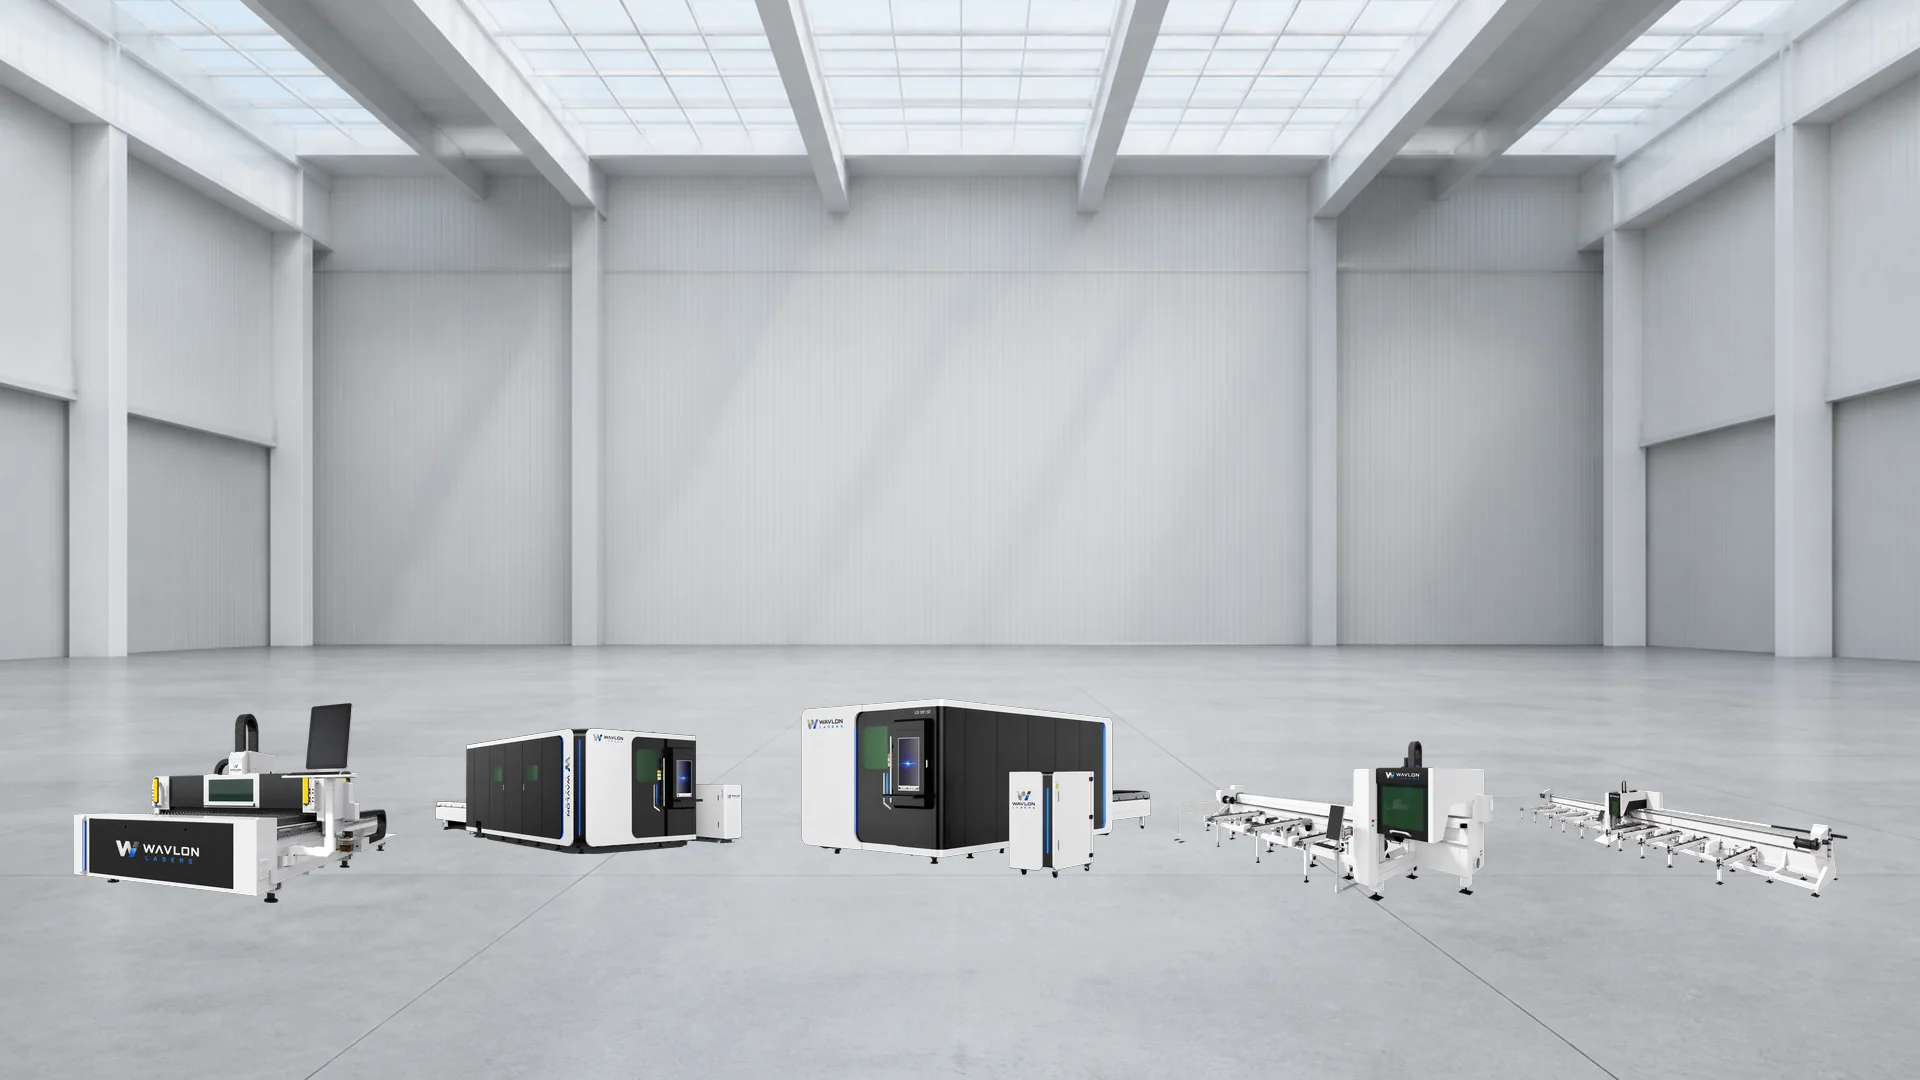
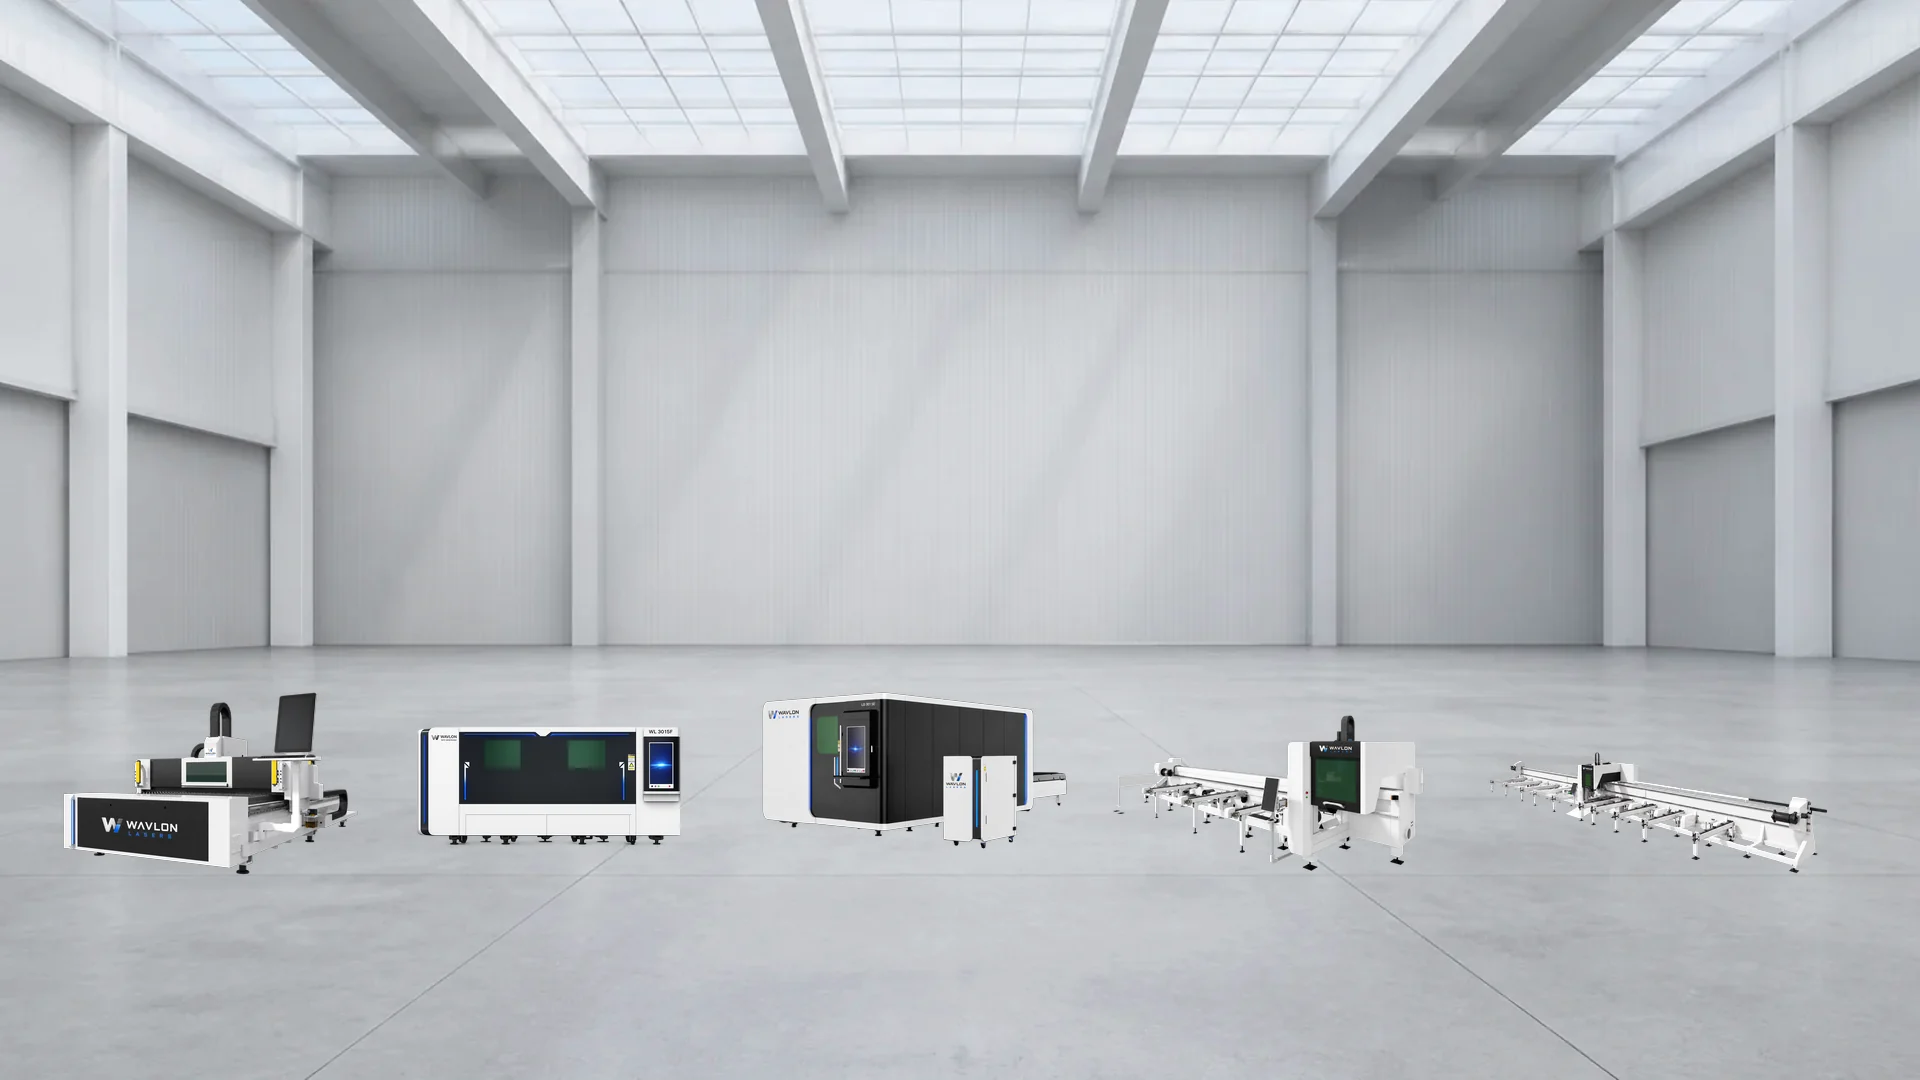
Fix hero machine crop and add heading fly-in

Changed region(s): [[0.0312, 0.6417, 0.9688, 0.825]]

diff --git a/index.html b/index.html
@@ -254,11 +254,11 @@ h1 em, h2 em, h3 em { font-style: normal; color: transparent; -webkit-text-strok
 .hero-three-canvas{position:absolute;inset:0;z-index:2;width:100%;height:100%;pointer-events:none;opacity:.22}.hero-grid{display:none}
 .hero-copy{position:absolute;z-index:8;left:50%;top:clamp(122px,14%,166px);width:min(92%,980px);transform:translateX(-50%);text-align:center}
 .hero-overline{justify-content:center;font:600 clamp(13px,1vw,18px) var(--body);color:rgba(255,255,255,.92);margin:0 0 clamp(8px,1vw,16px);text-shadow:0 2px 14px rgba(8,28,47,.42)}.hero-overline:before{display:none}
-.hero-h1{font-family:var(--display);font-size:clamp(2.6rem,4.5vw,5.6rem);line-height:.98;font-weight:760;letter-spacing:-.045em;color:#fff;text-shadow:0 3px 28px rgba(8,28,47,.38);margin:0 0 clamp(14px,1.5vw,24px);white-space:nowrap}.hero-h1 .hw{display:inline}.hero-h1 .blue{color:#fff}
+.hero-h1{font-family:var(--display);font-size:clamp(2.6rem,4.5vw,5.6rem);line-height:.98;font-weight:760;letter-spacing:-.045em;color:#fff;text-shadow:0 3px 28px rgba(8,28,47,.38);margin:0 0 clamp(14px,1.5vw,24px);white-space:nowrap}.hero-h1 .hw{display:inline-block;transform-origin:50% 100%;backface-visibility:hidden}.hero-h1 .blue{color:#fff}
 .hero-body{display:flex;flex-direction:column;align-items:center;gap:12px}.hero-scene-kicker,.hero-scene-copy{display:none}.hero-cta{display:flex;gap:10px;flex-wrap:wrap;justify-content:center}
 .hero-cta .btn-primary,.hero-cta .btn-ghost{padding:11px 22px;border-radius:999px;font:700 12px var(--body)}.hero-cta .btn-primary{background:#fff;color:#142239;border:1px solid #fff}.hero-cta .btn-ghost{background:rgba(255,255,255,.16);color:#fff;border:1px solid rgba(255,255,255,.55);backdrop-filter:blur(8px)}
 .hero-scenes{position:absolute;inset:0;z-index:3}.hero-scene{position:absolute;inset:0;opacity:0;visibility:hidden;transition:opacity .3s,visibility .3s}.hero-scene.is-active{opacity:1;visibility:visible}
-.hero-scene-art{width:100%;height:100%;display:block;object-fit:cover;object-position:center;opacity:0;transform:translate3d(5%,0,0) scale(1.012)}.hero-scene.is-active .hero-scene-art{animation:heroSceneIn .58s cubic-bezier(.2,.9,.24,1) both}@keyframes heroSceneIn{to{opacity:1;transform:none}}
+.hero-scene-art{width:100%;height:100%;display:block;object-fit:cover;object-position:center bottom;opacity:0;transform:translate3d(5%,0,0) scale(1.012)}.hero-scene.is-active .hero-scene-art{animation:heroSceneIn .58s cubic-bezier(.2,.9,.24,1) both}@keyframes heroSceneIn{to{opacity:1;transform:none}}
 .hero-scene-tag{position:absolute;right:clamp(20px,2.2vw,40px);top:calc(var(--header-h) + 20px);z-index:8;display:flex;gap:9px;color:rgba(255,255,255,.82);font:9px var(--mono);letter-spacing:.18em;text-transform:uppercase;text-shadow:0 1px 8px #000}.hero-scene-tag:before{content:"";width:7px;height:7px;border-radius:50%;background:#0b5be7}
 .hero-gallery-nav{position:absolute;z-index:9;left:50%;bottom:clamp(16px,2vw,34px);transform:translateX(-50%);display:flex;align-items:center;gap:12px}.hero-gallery-arrow{width:40px;height:40px;border:1px solid rgba(255,255,255,.6);border-radius:50%;color:#fff;background:rgba(13,36,58,.32);backdrop-filter:blur(10px)}.hero-gallery-arrow:hover{background:#0b5be7}
 .hero-gallery-dots{display:flex;gap:7px}.hero-gallery-dot{position:relative;width:38px;height:3px;overflow:hidden;border:0;background:rgba(255,255,255,.42)}.hero-gallery-dot:after{content:"";position:absolute;inset:0;background:#0b5be7;transform:scaleX(0);transform-origin:left}.hero-gallery-dot.is-active:after{animation:heroProgress 5.6s linear forwards}@keyframes heroProgress{to{transform:scaleX(1)}}.hero-counter{color:rgba(255,255,255,.72);font:10px var(--mono)}.hero-counter strong{color:#fff}
@@ -866,16 +866,17 @@ function heroIntro() {
     var overline = document.querySelector('.hero-overline');
     if (!h1) return;
 
-    var tl = gsap.timeline({ defaults: { ease: 'power3.out' } });
-    tl.fromTo('.hw',
-        { opacity: 0, y: 28 },
-        { opacity: 1, y: 0, stagger: 0.08, duration: 0.58 }, 0.08)
-      .fromTo(overline,
-        { opacity: 0, x: -18 },
-        { opacity: 1, x: 0, duration: 0.5 }, 0.18)
+    gsap.set(h1, { perspective: 900 });
+    var tl = gsap.timeline({ defaults: { ease: 'power4.out' } });
+    tl.fromTo(overline,
+        { opacity: 0, x: -70, filter: 'blur(7px)' },
+        { opacity: 1, x: 0, filter: 'blur(0px)', duration: 0.68 }, 0.02)
+      .fromTo('.hw',
+        { opacity: 0, x: function(i) { return i % 2 ? 105 : -105; }, y: 22, rotationY: function(i) { return i % 2 ? 18 : -18; }, filter: 'blur(10px)' },
+        { opacity: 1, x: 0, y: 0, rotationY: 0, filter: 'blur(0px)', stagger: 0.13, duration: 0.92 }, 0.12)
       .fromTo(heroBody,
-        { opacity: 0, y: 24 },
-        { opacity: 1, y: 0, duration: 0.62 }, 0.28);
+        { opacity: 0, y: 38, scale: 0.96 },
+        { opacity: 1, y: 0, scale: 1, duration: 0.68 }, 0.52);
 
   } catch (err) {
     // Failsafe: if animation throws, ensure all hero elements are visible
